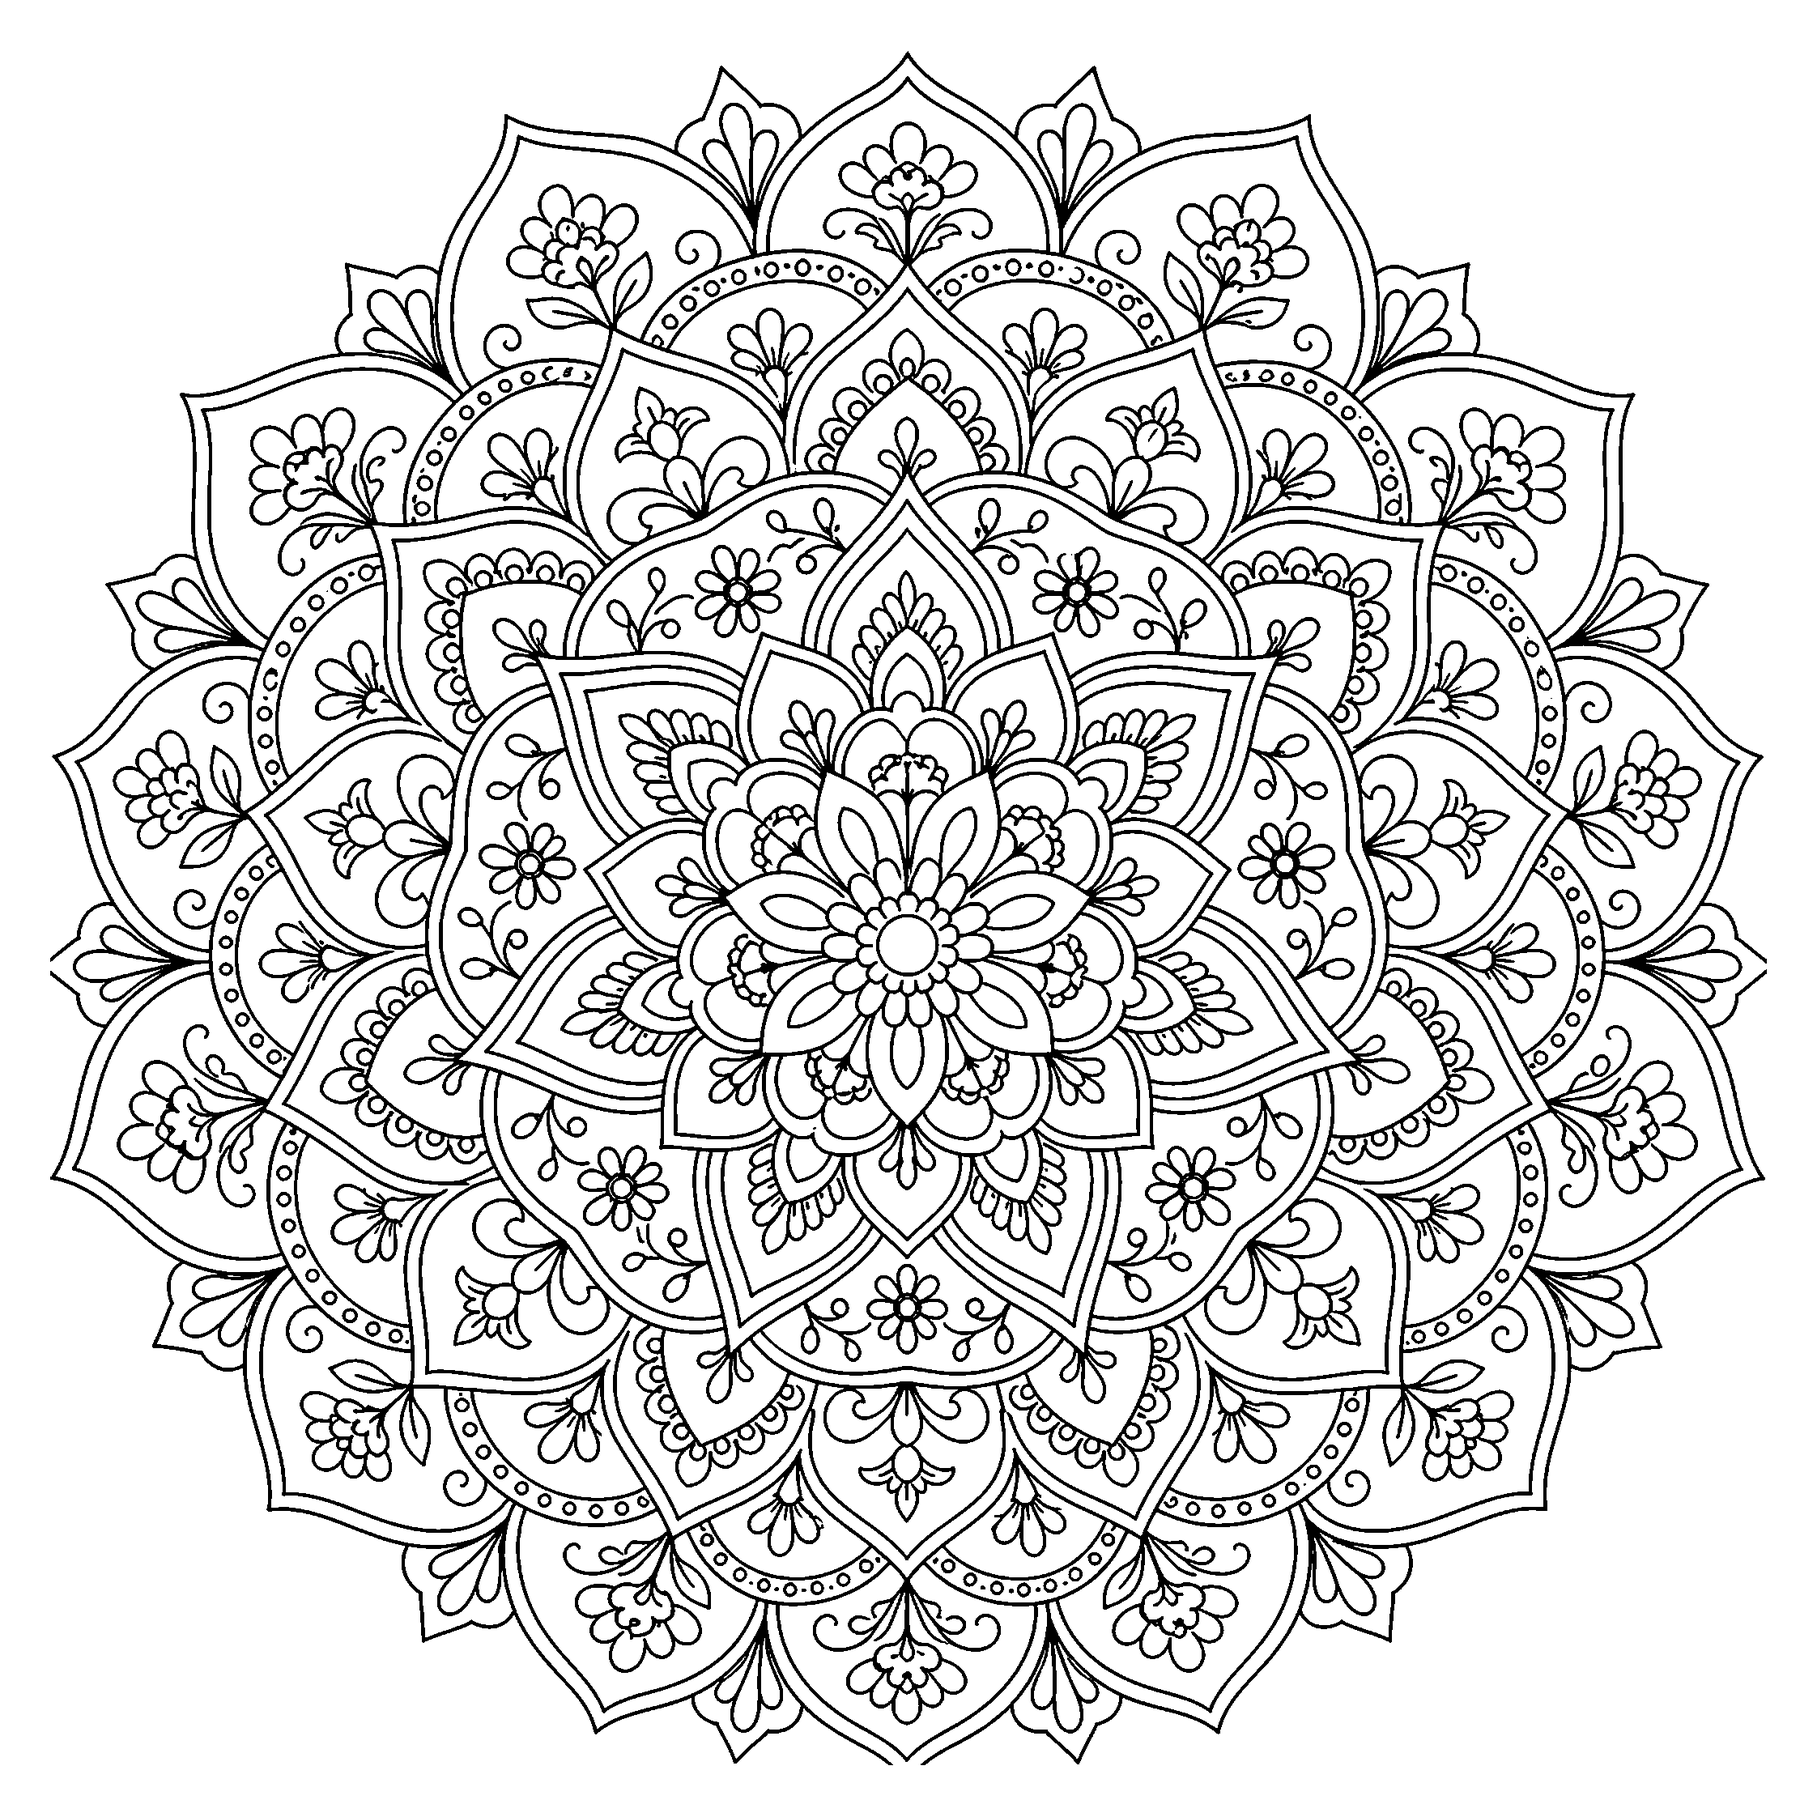
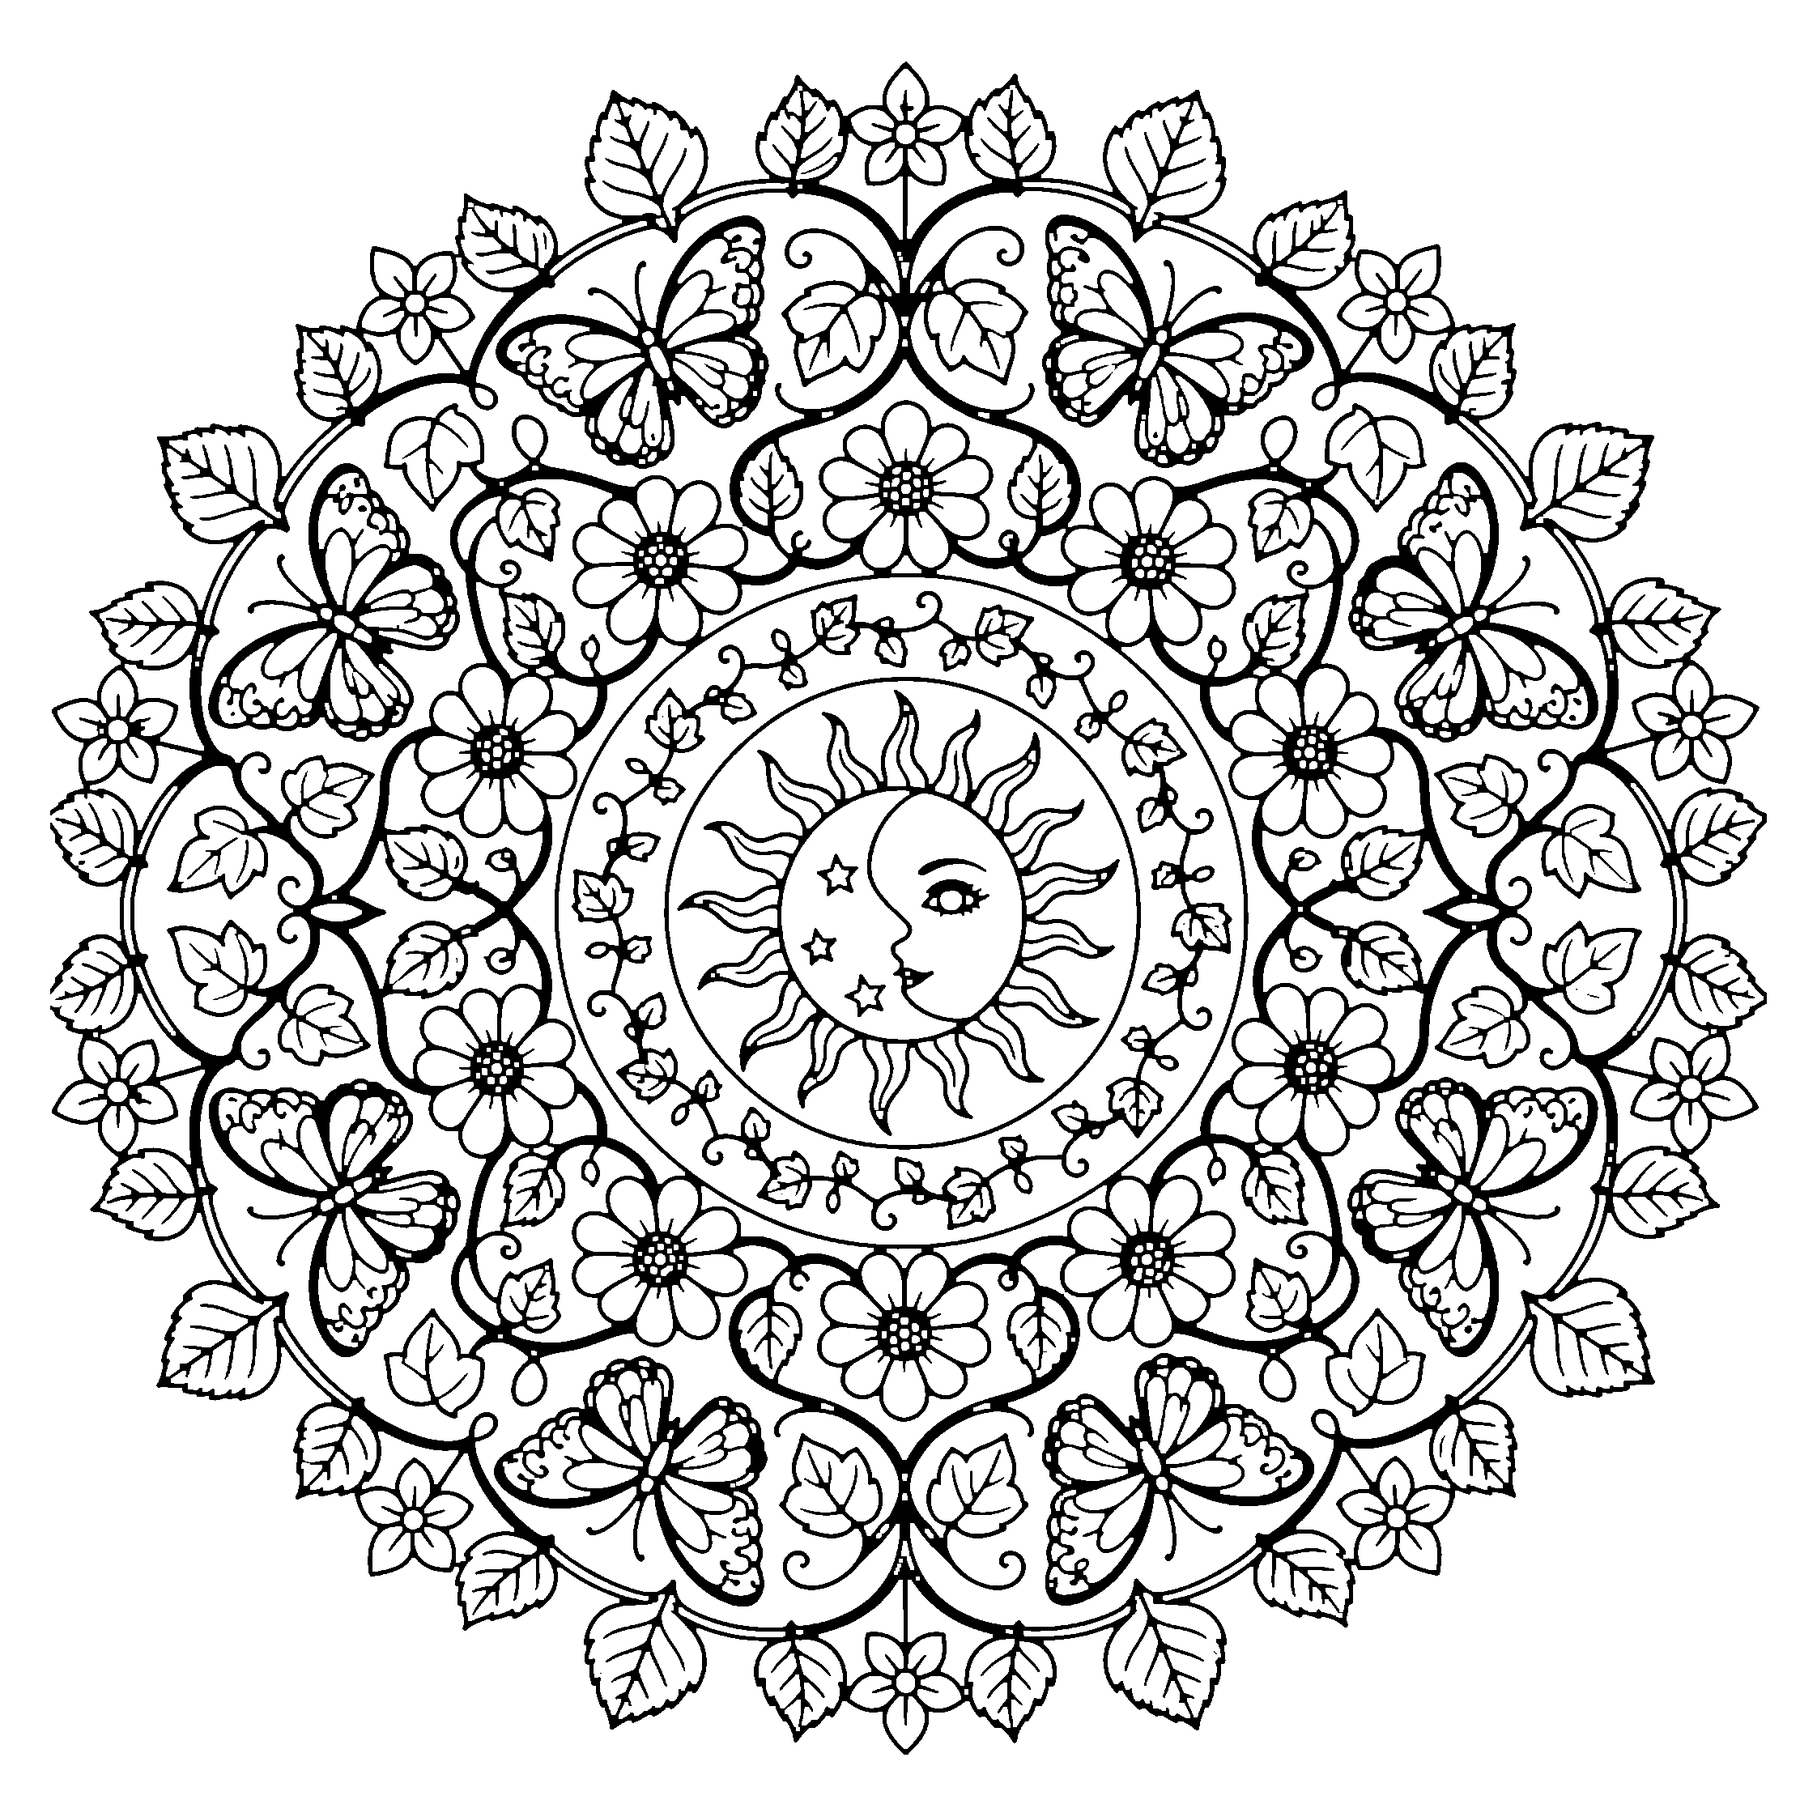
feat(mandalas): kit de 10 mándalas por categoría × dificultad
Amplía el kit de 6 (solo dificultad) a 10 organizadas por CATEGORÍA × dificultad:
Animales (chicos), Naturaleza, Florales, Geométricas y Zen (adultos antiestrés).
Cada mándala declara (categoría, dificultad, estrellas) en mandalas.MANDALAS; el pie
de página y las tarjetas del visor web muestran la categoría + dificultad.

- mandalas.py: MANDALAS (10) + N_MANDALAS; pagina(idx) usa la metadata (estrellas +
  "Categoría · dificultad"); portada actualizada; fallback procedural mapea estrellas→
  complejidad.
- mandalas_arte/1..10.png: arte IA nuevo (gpt-image), limpiado a B/N puro 300dpi con
  cierre de huecos ligero (anti-fuga del balde). Las figurativas (animales) tienen un
  fondo grande legítimo (pintable de un color); las geométricas/zen quedan 100% acotadas.
- mandalas_web.py / mandalas_player.js: galería de 10 con categoría por tarjeta; whitelist
  mandala_1..10.
- productos.py: _piezas_mandalas 10 piezas + etiquetas por categoría.
- tests: 10 + categorías (test_mandalas 10 passed, test_mandalas_web whitelist a 10).

Claude-Session: https://claude.ai/code/session_01TCHUMbo3tfF67vveHZr6ro

Changed region(s): [[0.0312, 0.0312, 0.967, 0.967]]

diff --git a/mandalas_player.js b/mandalas_player.js
@@ -21,8 +21,8 @@
     MANDALAS.forEach(function (m, i) {
       var card = el("div", "card");
       var img = el("img"); img.src = m.src; img.alt = "Mándala " + (i + 1); img.loading = "lazy";
-      var dif = el("div", "dif"); dif.textContent = m.dif;
-      var st = el("div", "stars"); st.textContent = estrellas(i + 1);
+      var dif = el("div", "dif"); dif.textContent = (m.cat ? m.cat + " · " : "") + m.dif;
+      var st = el("div", "stars"); st.textContent = estrellas(m.stars || (i + 1));
       card.append(img, st, dif);
       card.addEventListener("click", function () { abrirPintar(i); });
       grid.appendChild(card);

diff --git a/mandalas.py b/mandalas.py
@@ -31,7 +31,24 @@ BLACK = (0, 0, 0)
 WHITE = (255, 255, 255)
 CX, CY = A4[0] // 2, A4[1] // 2
 R = 1060                          # radio máx del mandala (cabe en el área imprimible)
-NIVELES = 6
+NIVELES = 6                       # niveles de complejidad del diseño PROCEDURAL (fallback)
+
+# El KIT: 10 mándalas por CATEGORÍA × dificultad. Por cada una: (categoría, dificultad,
+# estrellas 1-6). El arte vive en mandalas_arte/<n>.png; las estrellas mapean a la
+# complejidad del fallback procedural.
+MANDALAS = [
+    ("Animales",    "Muy fácil",   1),
+    ("Animales",    "Fácil",       2),
+    ("Naturaleza",  "Fácil",       2),
+    ("Naturaleza",  "Media",       3),
+    ("Florales",    "Media",       3),
+    ("Florales",    "Difícil",     5),
+    ("Geométricas", "Media",       4),
+    ("Geométricas", "Difícil",     5),
+    ("Zen",         "Muy difícil", 6),
+    ("Zen",         "Muy difícil", 6),
+]
+N_MANDALAS = len(MANDALAS)
 
 # Arte fijo (line-art generado con IA, limpiado a B/N puro, 2244px @300dpi). Se genera UNA
 # vez y se vende a todos (las mándalas no son personalizadas). Si falta un asset, la pieza
@@ -247,27 +264,29 @@ def _star(d, cx, cy, r, filled):
     d.polygon(pts, fill=BLACK if filled else None, outline=BLACK, width=3)
 
 
-def _pegar_mandala(img, nivel, cx=CX, cy=CY, size=2160):
-    """Dibuja la mándala del nivel: usa el arte IA (asset) si existe, si no el procedural."""
-    art = _asset(nivel)
+def _pegar_mandala(img, idx, cx=CX, cy=CY, size=2160):
+    """Dibuja la mándala `idx` (1..N): usa el arte IA (asset) si existe, si no el procedural
+    (complejidad = estrellas de esa mándala)."""
+    art = _asset(idx)
     if art:
         m = Image.open(art).convert("RGB").resize((size, size), Image.LANCZOS)
         img.paste(m, (int(cx - size / 2), int(cy - size / 2)))
     else:
-        draw_mandala(ImageDraw.Draw(img), nivel, cx=cx, cy=cy, rmax=size // 2)
+        estrellas = MANDALAS[idx - 1][2] if 1 <= idx <= N_MANDALAS else 3
+        draw_mandala(ImageDraw.Draw(img), estrellas, cx=cx, cy=cy, rmax=size // 2)
 
 
-def pagina(nivel, idx, total=NIVELES):
-    """Una hoja de mándala (line-art para colorear)."""
+def pagina(idx, total=N_MANDALAS):
+    """Una hoja de mándala (line-art para colorear). idx 1..N_MANDALAS."""
+    cat, dif, estrellas = MANDALAS[idx - 1]
     img, d = _page()
-    _pegar_mandala(img, nivel)
+    _pegar_mandala(img, idx)
     _txt(d, f"{idx} / {total}", CX, 150, "Poppins-Regular.ttf", 40, (150, 150, 150))
-    gap, sr, ns = 74, 24, NIVELES
+    gap, sr, ns = 74, 24, 6
     x0 = CX - (ns - 1) * gap / 2
     for i in range(ns):
-        _star(d, x0 + i * gap, A4[1] - 210, sr, filled=(i < nivel))
-    _txt(d, DIFICULTAD[max(0, min(NIVELES, nivel) - 1)], CX, A4[1] - 148,
-         "Poppins-Regular.ttf", 40, (90, 90, 90))
+        _star(d, x0 + i * gap, A4[1] - 215, sr, filled=(i < estrellas))
+    _txt(d, f"{cat} · {dif}", CX, A4[1] - 150, "Poppins-Regular.ttf", 40, (90, 90, 90))
     _footer(d)
     return img
 
@@ -282,9 +301,9 @@ def portada(data=None):
     _txt(d, "Mándalas", CX, 520, "Fredoka-VF.ttf", 210, BLACK, wght=650, maxw=A4[0] - 400)
     sub = f"de {nombre}" if nombre else "para pintar"
     _txt(d, sub, CX, 720, "Fredoka-VF.ttf", 120, BLACK, wght=500, maxw=A4[0] - 500)
-    _pegar_mandala(img, 3, cx=CX, cy=1920, size=1560)
-    _txt(d, f"{NIVELES} diseños · dificultad creciente · listo para imprimir en casa",
-         CX, 2820, "Poppins-Regular.ttf", 44, (70, 70, 70), maxw=A4[0] - 300)
+    _pegar_mandala(img, 5, cx=CX, cy=1920, size=1560)
+    _txt(d, f"{N_MANDALAS} mándalas · animales, flores, geométricas y zen · imprimir y pintar",
+         CX, 2820, "Poppins-Regular.ttf", 42, (70, 70, 70), maxw=A4[0] - 240)
     _footer(d)
     return img
 
@@ -321,8 +340,8 @@ if __name__ == "__main__":
     out = sys.argv[1] if len(sys.argv) > 1 else "salida_mandalas"
     os.makedirs(out, exist_ok=True)
     pages = [portada({"nombre": ""})]
-    for lvl in range(1, NIVELES + 1):
-        pages.append(pagina(lvl, lvl, NIVELES))
+    for i in range(1, N_MANDALAS + 1):
+        pages.append(pagina(i))
     pages.append(como_imprimir())
     pdf = os.path.join(out, "kit_mandalas.pdf")
     pages[0].save(pdf, "PDF", resolution=300, save_all=True, append_images=pages[1:])

diff --git a/tests/test_mandalas.py b/tests/test_mandalas.py
@@ -21,7 +21,7 @@ def test_piezas_procedurales_se_generan(tmp_path, monkeypatch):
     monkeypatch.setattr(temas, "TEMAS_DIR", str(tmp_path))
     items = productos.piezas_tipo("safari", "mandalas")
     # portada + 6 mándalas + cómo imprimir
-    assert len(items) == mandalas.NIVELES + 2
+    assert len(items) == mandalas.N_MANDALAS + 2
     for nombre, fn, _is_rgba in items:
         img = fn({"nombre": "Sofía"})
         assert img.size == mandalas.A4          # A4 300dpi REAL (evita el gotcha DPI)
@@ -44,7 +44,7 @@ def test_kit_zip_completo(tmp_path, monkeypatch):
     productos.generar({"nombre": "Sofía"}, str(tmp_path), "safari", "mandalas")
     z = os.path.join(str(tmp_path), "kit.zip")
     assert os.path.exists(z)
-    assert len(zipfile.ZipFile(z).namelist()) == mandalas.NIVELES + 2
+    assert len(zipfile.ZipFile(z).namelist()) == mandalas.N_MANDALAS + 2
 
 
 def test_override_reemplaza_una_pieza(tmp_path, monkeypatch):
@@ -75,7 +75,7 @@ def test_dificultad_declarada_por_nivel():
 def test_arte_ia_existe_y_es_bn_puro():
     """Los 6 assets de arte (line-art IA limpiado) están presentes y son B/N puro y cuadrados."""
     from PIL import Image
-    for nivel in range(1, mandalas.NIVELES + 1):
+    for nivel in range(1, mandalas.N_MANDALAS + 1):
         p = mandalas._asset(nivel)
         assert p is not None, f"falta el asset del nivel {nivel}"
         im = Image.open(p).convert("L")
@@ -88,8 +88,20 @@ def test_pagina_usa_el_arte_ia_cuando_existe(monkeypatch):
     """Con asset presente, la página usa el arte IA (no el procedural). Se verifica por
     cantidad de tinta: el arte IA del nivel 6 es mucho más denso que el procedural."""
     from PIL import Image
-    pg = mandalas.pagina(6, 6).convert("L")
+    pg = mandalas.pagina(9).convert("L")  # zen muy difícil = densa
     tinta = sum(1 for p in pg.getdata() if p < 8)
     # sin asset, draw_mandala procedural deja mucha menos tinta (line-art fino, ~1-2% de la
     # página); el arte IA nivel 6 llena el área central → ~7-8% sobre la hoja completa.
     assert tinta > pg.width * pg.height * 0.05
+
+
+def test_kit_de_10_con_categorias():
+    """El kit son 10 mándalas por categoría × dificultad (metadata MANDALAS)."""
+    assert mandalas.N_MANDALAS == 10
+    assert len(mandalas.MANDALAS) == 10
+    cats = {c for c, _dif, _st in mandalas.MANDALAS}
+    assert cats == {"Animales", "Naturaleza", "Florales", "Geométricas", "Zen"}
+    # estrellas 1..6 válidas
+    assert all(1 <= st <= 6 for _c, _d, st in mandalas.MANDALAS)
+    # las 10 tienen asset de arte
+    assert all(mandalas._asset(i) for i in range(1, 11))

diff --git a/mandalas_web.py b/mandalas_web.py
@@ -22,7 +22,7 @@ MW_DIR = os.path.join(BASEDIR, "mandalas_web")          # carpetas por token (gi
 ART_DIR = os.path.join(BASEDIR, "mandalas_arte")        # las 6 mándalas fijas (en el repo)
 TEMPLATE_HTML = os.path.join(BASEDIR, "mandalas_player.html")
 TEMPLATE_JS = os.path.join(BASEDIR, "mandalas_player.js")
-NIVELES = mandalas.NIVELES
+NIVELES = mandalas.N_MANDALAS
 _TOKEN_RE = r"[A-Za-z0-9_-]{8,32}"
 
 
@@ -95,15 +95,16 @@ def html(token):
         t = f.read()
     # NIVELES y NOMBRE se inyectan en un <script> (contexto JS) → JSON crudo, NO _esc
     # (los labels son fijos; el nombre va JSON-encodeado para cerrar bien el string).
-    niveles = json.dumps([{"src": f"mandala_{i}.png", "dif": mandalas.DIFICULTAD[i - 1]}
-                          for i in range(1, NIVELES + 1)], ensure_ascii=False)
+    niveles = json.dumps([{"src": f"mandala_{i}.png", "cat": cat, "dif": dif, "stars": stars}
+                          for i, (cat, dif, stars) in enumerate(mandalas.MANDALAS, 1)],
+                         ensure_ascii=False)
     return (t.replace("{{TITULO}}", _esc(reg.get("titulo") or "Mándalas para pintar"))
              .replace("{{NIVELES}}", niveles)
              .replace("{{NOMBRE}}", json.dumps(reg.get("nombre") or "", ensure_ascii=False))
              .replace("{{V}}", _player_version()))
 
 
-_ASSET_RE = re.compile(r"^(player\.js|mandala_[1-6]\.png|portada\.jpg|kit\.zip|manifest\.json)$")
+_ASSET_RE = re.compile(r"^(player\.js|mandala_([1-9]|10)\.png|portada\.jpg|kit\.zip|manifest\.json)$")
 _CT = {".js": "text/javascript; charset=utf-8", ".png": "image/png", ".jpg": "image/jpeg",
        ".zip": "application/zip", ".json": "application/json; charset=utf-8"}
 
@@ -113,7 +114,7 @@ def archivo(token, nombre):
     kit.zip / portada.jpg / manifest.json salen de la carpeta del token."""
     if not _cargar(token) or not _ASSET_RE.fullmatch(nombre or ""):
         return None
-    m = re.fullmatch(r"mandala_([1-6])\.png", nombre)
+    m = re.fullmatch(r"mandala_([1-9]|10)\.png", nombre)
     if nombre == "player.js":
         p = TEMPLATE_JS
     elif m:

diff --git a/productos.py b/productos.py
@@ -554,10 +554,10 @@ def _piezas_mandalas(tema):
     line-art B/N; queda como eje para la Fase 2 con arte IA)."""
     import mandalas
     out = [("00_portada", lambda d: mandalas.portada(d), False)]
-    for lvl in range(1, mandalas.NIVELES + 1):
-        out.append(("%02d_mandala" % lvl,
-                    (lambda L: (lambda d: mandalas.pagina(L, L, mandalas.NIVELES)))(lvl), False))
-    out.append(("%02d_como_imprimir" % (mandalas.NIVELES + 1), lambda d: mandalas.como_imprimir(d), False))
+    for i in range(1, mandalas.N_MANDALAS + 1):
+        out.append(("%02d_mandala" % i,
+                    (lambda k: (lambda d: mandalas.pagina(k)))(i), False))
+    out.append(("%02d_como_imprimir" % (mandalas.N_MANDALAS + 1), lambda d: mandalas.como_imprimir(d), False))
     return out
 
 
@@ -951,10 +951,12 @@ _PIEZA_LABELS = {
     "1_cartas_memoria": "Cartas del memory",
     "2_dorso": "Dorso de cartas",
     "00_portada": "Portada",
-    "01_mandala": "Mándala 1 · Muy fácil", "02_mandala": "Mándala 2 · Fácil",
-    "03_mandala": "Mándala 3 · Intermedio", "04_mandala": "Mándala 4 · Avanzado",
-    "05_mandala": "Mándala 5 · Difícil", "06_mandala": "Mándala 6 · Muy difícil",
-    "07_como_imprimir": "Cómo imprimir",
+    "01_mandala": "Animales · Muy fácil", "02_mandala": "Animales · Fácil",
+    "03_mandala": "Naturaleza · Fácil", "04_mandala": "Naturaleza · Media",
+    "05_mandala": "Florales · Media", "06_mandala": "Florales · Difícil",
+    "07_mandala": "Geométricas · Media", "08_mandala": "Geométricas · Difícil",
+    "09_mandala": "Zen · Muy difícil", "10_mandala": "Zen · Muy difícil",
+    "11_como_imprimir": "Cómo imprimir",
     # kits dinámicos por arte estática (extras/): nombres lindos para la galería
     "01_invitacion": "Invitación", "02_afiche": "Afiche del número",
     "03_topper": "Topper de torta", "04_stickers": "Stickers",

diff --git a/tests/test_mandalas_web.py b/tests/test_mandalas_web.py
@@ -46,7 +46,7 @@ def test_archivo_whitelist(tmp_path):
     assert ok["kit.zip"] == "application/zip"
     assert ok["mandala_1.png"] == "image/png"
     # bloqueados: fuera del whitelist, traversal, niveles inexistentes
-    for bad in ("hack.png", "../manifest.json", "mandala_9.png", "../../etc/passwd", "data.json"):
+    for bad in ("hack.png", "../manifest.json", "mandala_11.png", "mandala_0.png", "../../etc/passwd", "data.json"):
         assert mw.archivo(tok, bad) is None, f"NO debería servir {bad}"
 
 

diff --git a/docs/MANDALAS.md b/docs/MANDALAS.md
@@ -6,7 +6,8 @@
 
 ## Qué es
 
-6 mándalas para colorear de fácil → muy difícil (rango chicos→adultos) + portada
+10 mándalas para colorear organizadas por **categoría × dificultad** (Animales, Naturaleza,
+Florales, Geométricas, Zen — de chicos a adultos antiestrés; ver `mandalas.MANDALAS`) + portada
 personalizable con el nombre + hoja "cómo imprimir".
 
 **El arte es FIJO** (mismas mándalas para todos, no se personalizan): line-art generado
@@ -21,7 +22,7 @@ las mándalas son fijas, no hace falta IA en vivo: arte estático servido del re
 
 Al comprar, `/api/generar` tipo `mandalas` (branch en `servicio.py`) llama
 `mandalas_web.crear(data)` y devuelve **un link visor** `/pintar/<token>/`. Ese visor:
-- **Deja PINTAR online** las 6 mándalas (balde/flood-fill sobre el line-art, paleta,
+- **Deja PINTAR online** las 10 mándalas (balde/flood-fill sobre el line-art, paleta,
   deshacer, limpiar, guardar PNG, **persistencia en localStorage** por mándala).
 - Tiene el botón **⬇ PDF** que descarga el `kit.zip` imprimible (guardado en el token,
   con la portada personalizada).
